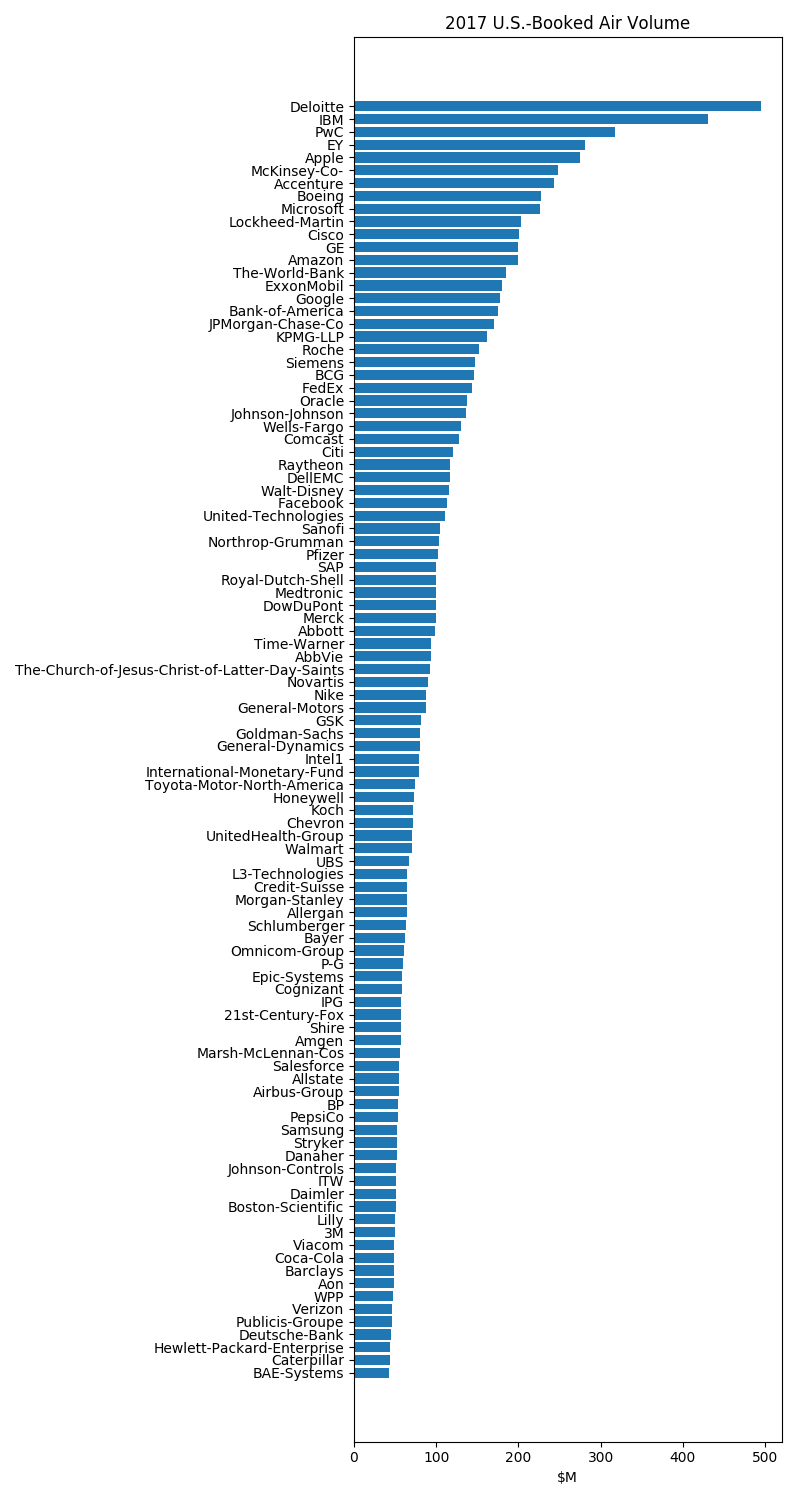
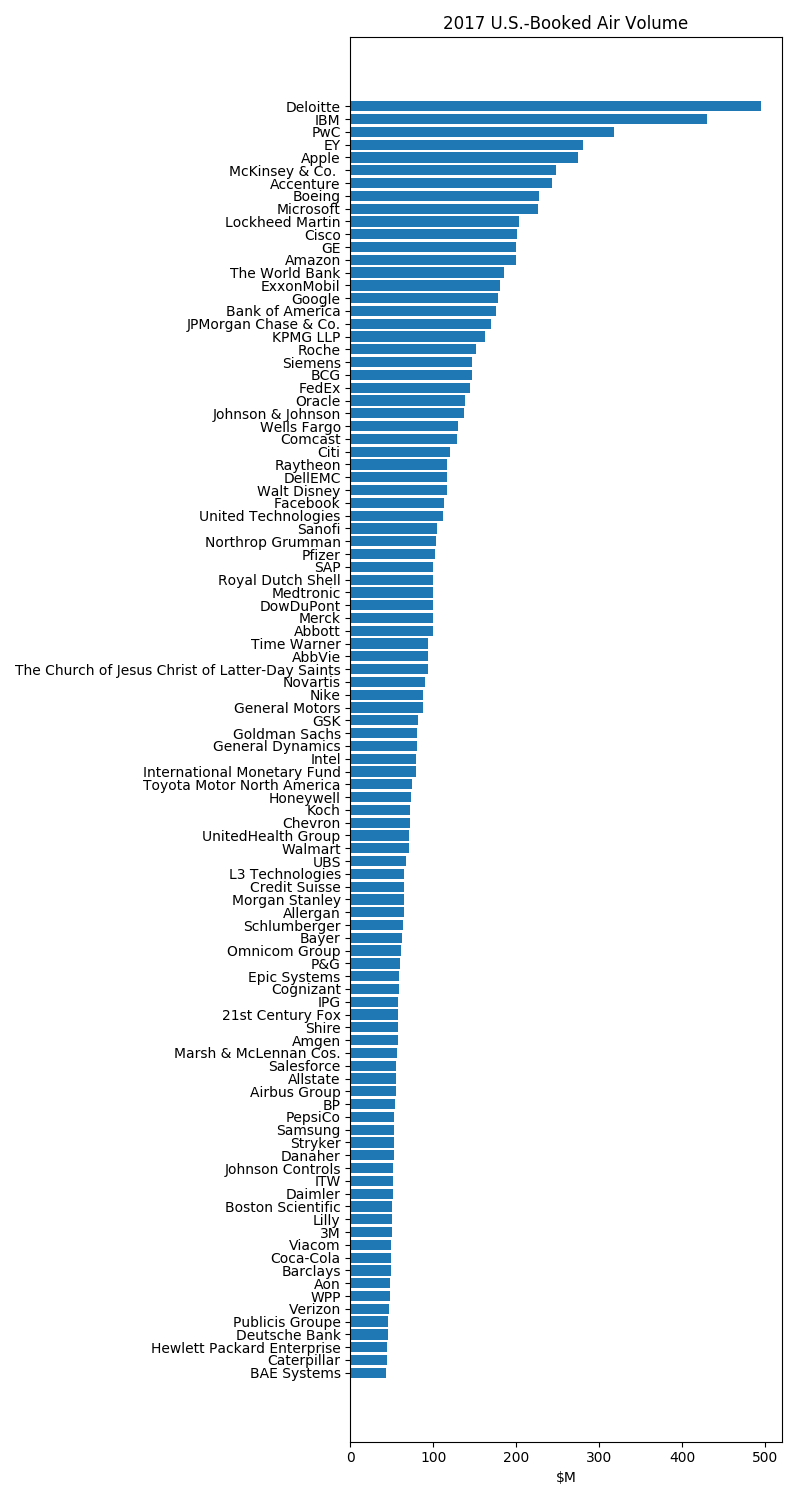
retaining original company names

diff --git a/corporate-travel/main.py b/corporate-travel/main.py
@@ -10,77 +10,77 @@ IBM
 PwC
 EY
 Apple
-McKinsey-Co-
+McKinsey & Co.
 Accenture
 Boeing
 Microsoft
-Lockheed-Martin
+Lockheed Martin
 Cisco
 Amazon
 GE
-The-World-Bank
+The World Bank
 ExxonMobil
 Google
-Bank-of-America
-JPMorgan-Chase-Co
-KPMG-LLP
+Bank of America
+JPMorgan Chase & Co.
+KPMG LLP
 Roche
 Siemens
 BCG
 FedEx
 Oracle
-Johnson-Johnson
-Wells-Fargo
+Johnson & Johnson
+Wells Fargo
 Comcast
 Citi
 DellEMC
 Raytheon
-Walt-Disney
+Walt Disney
 Facebook
-United-Technologies
+United Technologies
 Sanofi
-Northrop-Grumman
+Northrop Grumman
 Pfizer
 DowDuPont
 Medtronic
-Royal-Dutch-Shell
+Royal Dutch Shell
 SAP
 Merck
 Abbott
 AbbVie
-Time-Warner
-The-Church-of-Jesus-Christ-of-Latter-Day-Saints
+Time Warner
+The Church of Jesus Christ of Latter-Day Saints
 Novartis
 Nike
-General-Motors
+General Motors
 GSK
-General-Dynamics
-Goldman-Sachs
-Intel1
-International-Monetary-Fund
-Toyota-Motor-North-America
+General Dynamics
+Goldman Sachs
+Intel
+International Monetary Fund
+Toyota Motor North America
 Honeywell
 Koch
 Chevron
-UnitedHealth-Group
+UnitedHealth Group
 Walmart
 UBS
-Credit-Suisse
-L3-Technologies
+Credit Suisse
+L3 Technologies
 Allergan
-Morgan-Stanley
+Morgan Stanley
 Schlumberger
 Bayer
-Omnicom-Group
-P-G
-Epic-Systems
+Omnicom Group
+P&G
+Epic Systems
 Cognizant
-21st-Century-Fox
+21st Century Fox
 IPG
 Shire
 Amgen
-Marsh-McLennan-Cos
-Airbus-Group
+Marsh & McLennan Cos.
+Airbus Group
 Allstate
 Salesforce
 BP
@@ -90,8 +90,8 @@ Danaher
 Stryker
 Daimler
 ITW
-Johnson-Controls
-Boston-Scientific
+Johnson Controls
+Boston Scientific
 3M
 Lilly
 Barclays
@@ -100,15 +100,17 @@ Viacom
 Aon
 WPP
 Verizon
-Publicis-Groupe
-Deutsche-Bank
+Publicis Groupe
+Deutsche Bank
 Caterpillar
-Hewlett-Packard-Enterprise
-BAE-Systems"""
+Hewlett Packard Enterprise
+BAE Systems"""
 
 volumePerCompany = {}
 for line in s.splitlines():
-    response = requests.get("https://www.businesstravelnews.com/Corporate-Travel-100/2018/" + line).text
+    if 'McKinsey' in line:
+        line += ' '
+    response = requests.get("https://www.businesstravelnews.com/Corporate-Travel-100/2018/" + re.sub('\s*&\s*', '-', line).replace(' ', '-').replace('.', '').replace('Intel', 'Intel1')).text
     volumeStrings = [line for line in response.splitlines() if "Volume" in line]
     volumePerCompany[line] = float(re.search("\$(.*?) million", volumeStrings[0]).group(1))
 
